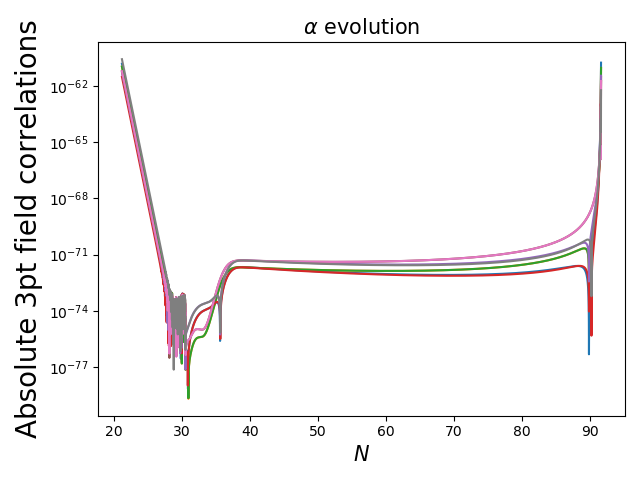
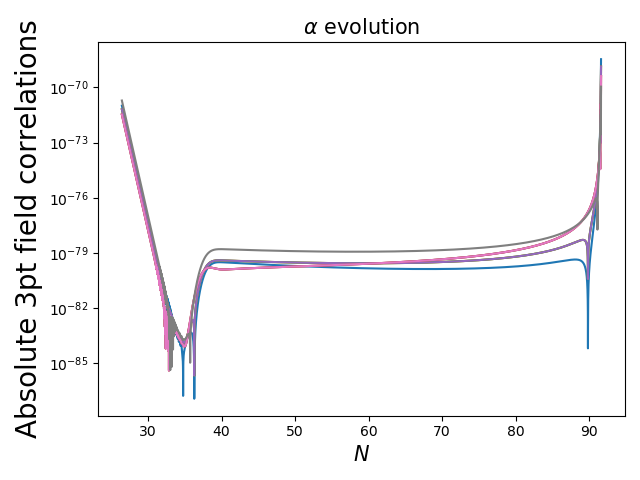
fNL in angular inlfation works

diff --git a/Examples/Angular/SimpleExample.py b/Examples/Angular/SimpleExample.py
@@ -47,7 +47,7 @@ print('Starting background evolution.')
 Nstart, Nend = 0., 150
 t = np.linspace(Nstart, Nend, 100_000)
 
-tols = np.array([10**-1, 10**-1])
+tols = np.array([10**-6, 10**-6])
 back = PyT.backEvolve(t, initial, pval, tols, True)
 
 # def lastNe(back: np.ndarray, N: int = 60) -> np.ndarray:
@@ -125,6 +125,7 @@ print("Initial epsilon: ", epsilon[0])
 # in this example we treat this scale as k_t
 
 NExit = Nend - 55
+print('Horizon exit at: ', NExit)
 k = PyS.kexitN(NExit, back, pval, PyT) 
 
 # other scales can then be defined wrt to k
@@ -147,7 +148,7 @@ zz1 = twoPt[:, 1] # the second column is the 2pt of zeta
 sigma = twoPt[:, 1+1+2*nF:] # the last 2nF* 2nF columns correspond to the evolution of the sigma matrix
 zz1a = zz1[-1] # the value of the power spectrum for this k value at the end of the run
 
-twoPt = PyT.sigEvolve(tsig, k+.1*k, backExitMinus, pval,tols, True)
+twoPt = PyT.sigEvolve(tsig, k+.1*k, backExitMinus, pval, tols, True)
 zz2 = twoPt[:,1]
 zz2a = zz2[-1]
 n_s = (np.log(zz2a)-np.log(zz1a))/(np.log(k+.1*k)-np.log(k))+4.0
@@ -166,6 +167,15 @@ plt.tight_layout()
 plt.savefig('Examples/Angular/Field2pt.png')
 plt.clf()
 
+sig_rr = np.abs(sigma[:, 0])
+sig_rth = np.abs(sigma[:, 2*nF])
+sig_thth = np.abs(sigma[:, 2*nF + 1])
+i_exit = np.argmin(np.abs(twoPt[:, 0] - NExit))
+print('At horizon crossing:')
+print('$\\Sigma^{rr}: $', sig_rr[i_exit])
+print('$\\Sigma^{r\\theta}: $', sig_rth[i_exit])
+print('$\\Sigma^{\\theta\\theta}$: ', sig_thth[i_exit])
+
 plt.plot(tsig, zz1[:] * k**3 / 2 / np.pi**2)
 plt.title(r'$P_\zeta$ evolution',fontsize=16);
 plt.ylabel(r'$P_\zeta(k)$', fontsize=20) 
@@ -180,13 +190,15 @@ print('Done with 2-pt, starting bispectrum calculation.')
 
 ###################################### example bispectrum run ##############################################################################
 
-# set three scales in FLS manner (using alpha, beta notation)
-alpha = 0.
-beta = 0.99
+# # set three scales in FLS manner (using alpha, beta notation)
+# alpha = 0.
+# beta = 1/3.
 
-k1 = k/2 - beta*k/2.
-k2 = k/4*(1+alpha+beta)
-k3 = k/4*(1-alpha+beta)
+# k1 = k/2 - beta*k/2.
+# k2 = k/4*(1+alpha+beta)
+# k3 = k/4*(1-alpha+beta)
+
+k1, k2, k3 = k, k, k
 
 # find initial conditions for NB e-folds before the smallest k (which exits the horizon first) crosses the horizon
 kM = np.min(np.array([k1, k2, k3]))
